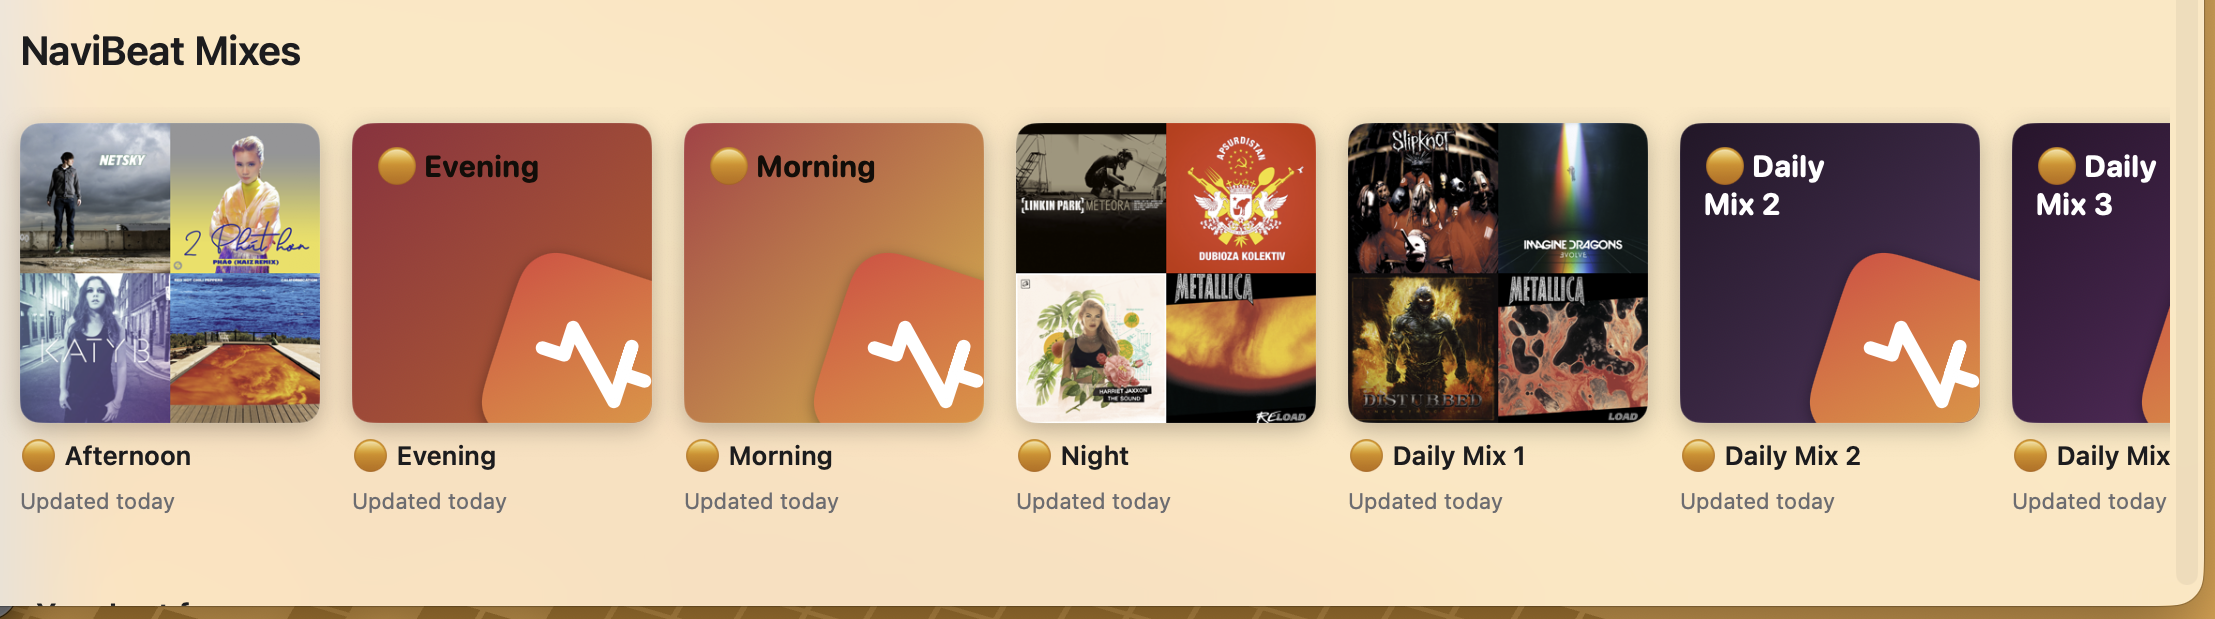
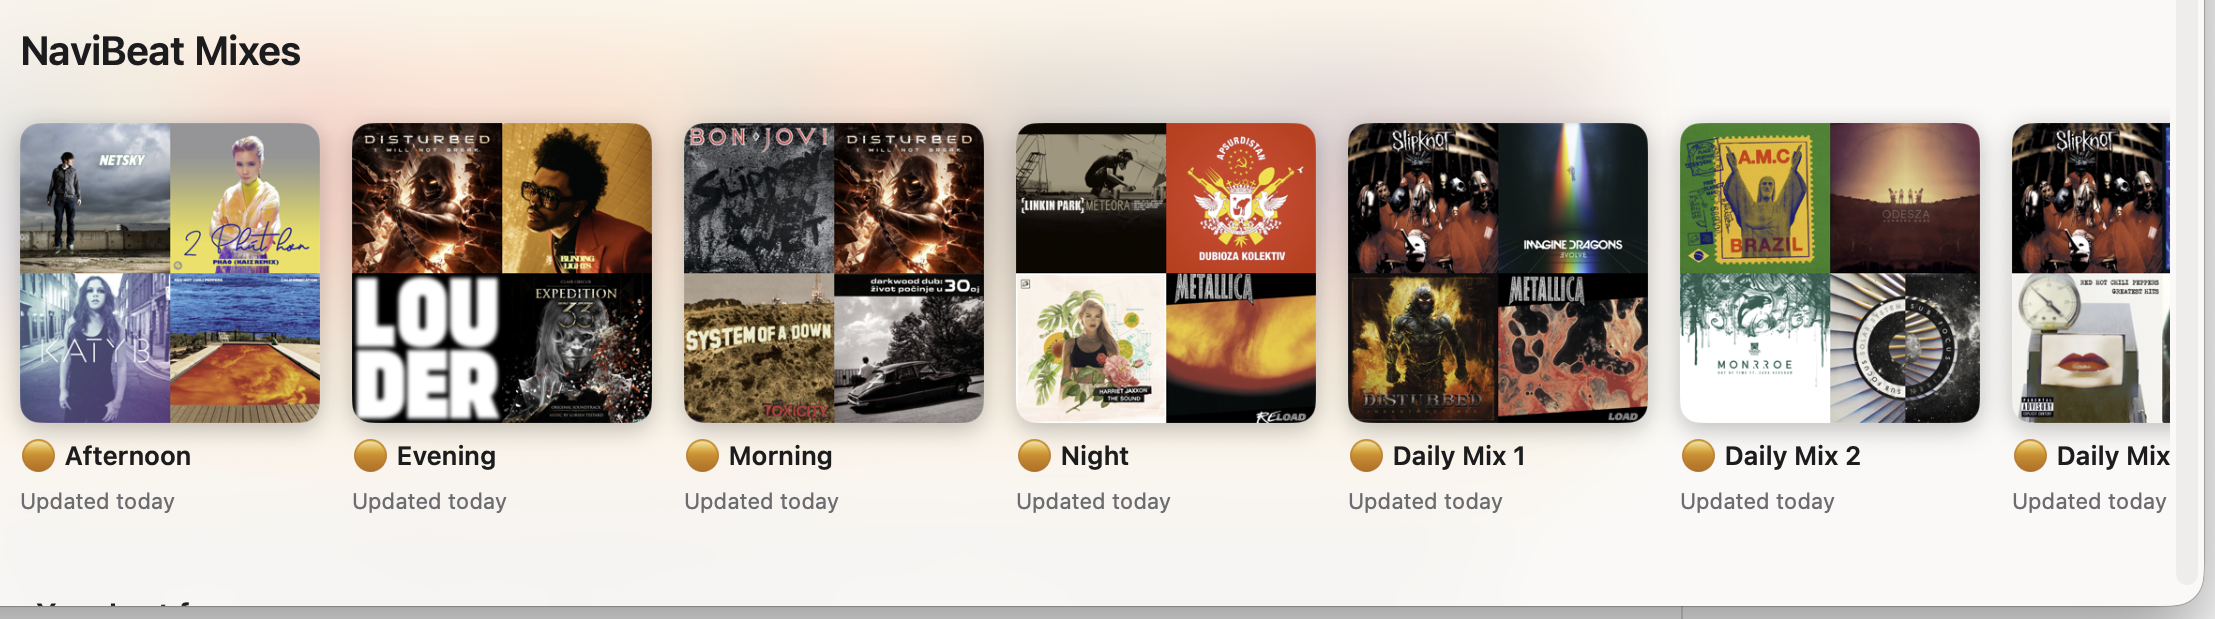
README: a clean mosaic screenshot, and a caption that was simply wrong
Nenad spotted the mosaic image: half the tiles were the server's grid and half were our generated
cover, which makes an option look broken rather than honest. The tiles had not finished loading their
artwork when I took it. Retaken once every playlist had its mosaic, so the option now shows what it
actually does.

The caption was worse than the picture. It said 'the first, third and fourth tiles below', and in that
image the fallbacks were the second, third, sixth and seventh. I described a screenshot instead of
reading it. Replaced with the general statement, which is what the reader needs and cannot go stale:
a playlist whose mosaic the server has not built yet falls back until it has, so the first minute
after switching can look mixed.

diff --git a/README.md b/README.md
@@ -291,8 +291,8 @@ one thing repeated rather than six different mixes.
 
 **`mosaic`** steps aside entirely and lets your server's own four-square album
 grid through, the same artwork every other client draws. A playlist your server
-has not built a mosaic for yet falls back to the generated cover, which is what
-the first, third and fourth tiles below are doing.
+has not built a mosaic for yet falls back to the generated cover until it has,
+so the first minute after switching can look mixed.
 
 ![The mosaic style](docs/img/style-mosaic.png)
 
